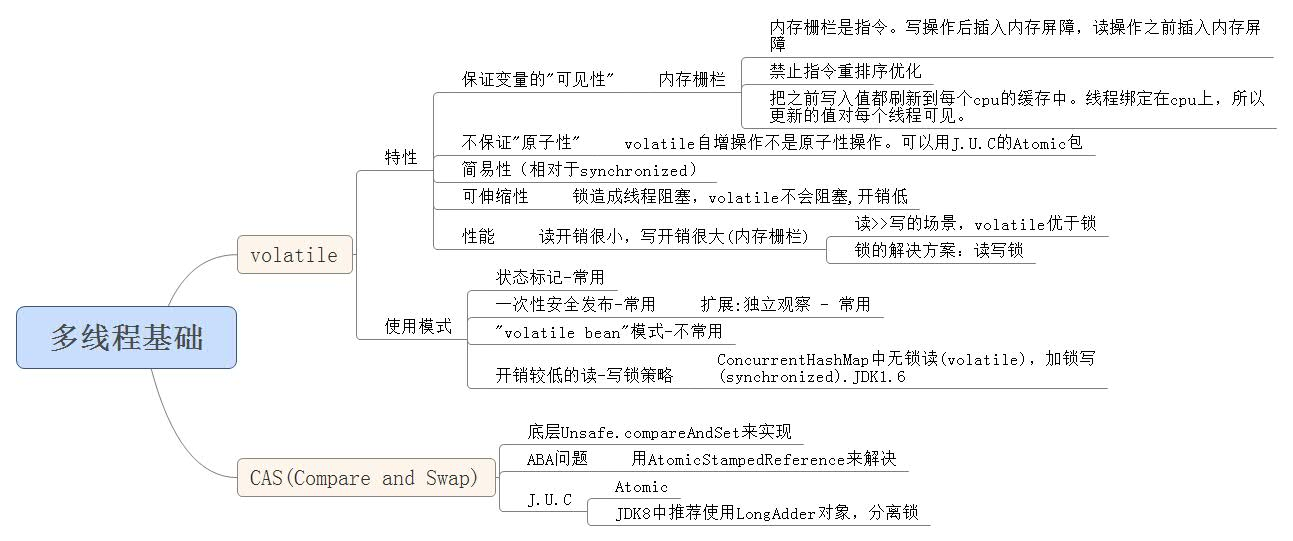
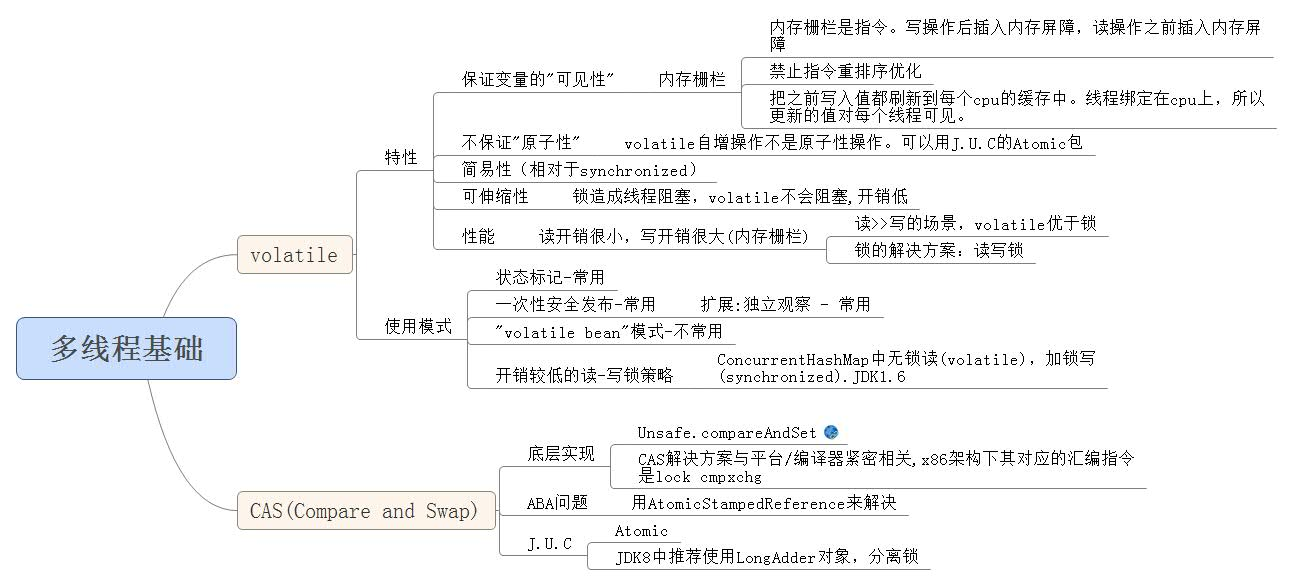
volatile&CAS

diff --git a/volatile&CAS.html b/volatile&CAS.html
@@ -18,5 +18,6 @@
 <p>2. 从volatile解读ConcurrentHashMap（jdk1.6.0）无锁读 </p>
 <p>3. 为什么volatile不能保证原子性而Atomic可以</p>
 <p>4. 阿里巴巴Java开发手册</p>
+<p>5.非阻塞同步算法与CAS(Compare and Swap)无锁算法</p>
 </body>
 </html>
